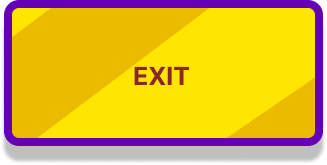
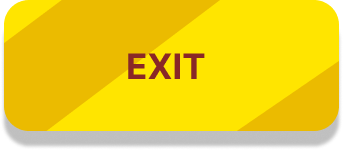
improved assets created and added

diff --git a/core/src/com/mygdx/game/screens/SelectTankScreen.java b/core/src/com/mygdx/game/screens/SelectTankScreen.java
@@ -58,8 +58,8 @@ public class SelectTankScreen implements Screen {
         previousButton = new Texture("left 3.png");
         rightActive = new Texture("left 4 sel.png");
         leftActive = new Texture("left 3 sel.png");
-        choose = new Texture("choose.png");
-        chooseSel = new Texture("chooseSel.png");
+        choose = new Texture("Group 22.png");
+        chooseSel = new Texture("Group 21.png");
         stage = new Stage(new StretchViewport(1920, 1080));
     }
     @Override
@@ -83,6 +83,7 @@ public class SelectTankScreen implements Screen {
         stage.getBatch().draw(nextButton, 1529, 469, 197, 142);
         stage.getBatch().draw(previousButton, 192, 469, 198, 142);
         int f = 0;
+        int currTank = 1;
 
         if (Gdx.input.getX() >1529 && Gdx.input.getX() < 1529+197 && Gdx.input.getY() > 469 && Gdx.input.getY() < 469+142) {
             stage.getBatch().draw(rightActive,1529, 469, 197, 142);
@@ -98,6 +99,7 @@ public class SelectTankScreen implements Screen {
             tankNameBanner = new Texture("Blazer.png");
             stage.getBatch().draw(tankNameBanner, 800, 750, 357, 136);
             stage.getBatch().draw(tank, 350, 150, 754, 552);
+            currTank = 2;
         }
         if (Gdx.input.getX() >192 && Gdx.input.getX() < 192+198 && Gdx.input.getY() > 469 && Gdx.input.getY() < 469+142) {
             stage.getBatch().draw(leftActive,192, 469, 198, 142);
@@ -108,6 +110,31 @@ public class SelectTankScreen implements Screen {
                 stage.getBatch().draw(tankNameBanner, 800, 750, 357, 136);
             }
         }
+
+//        if (currTank == 2) {
+//            if (Gdx.input.getX() > 1529 && Gdx.input.getX() < 1529 + 197 && Gdx.input.getY() > 469 && Gdx.input.getY() < 469 + 142) {
+//                stage.getBatch().draw(rightActive, 1529, 469, 197, 142);
+//                if (Gdx.input.justTouched()) {
+//                    f = 2;
+//                }
+//            } else if (Gdx.input.getX() > 192 && Gdx.input.getX() < 192 + 198 && Gdx.input.getY() > 469 && Gdx.input.getY() < 469 + 142) {
+//                stage.getBatch().draw(leftActive, 192, 469, 198, 142);
+//                if (Gdx.input.isTouched()) {
+//                    tank = new Texture("Blazer 3.png");
+//                    stage.getBatch().draw(tank, 350, 150, 1141, 752);
+//                    tankNameBanner = new Texture("Blazer.png");
+//                    stage.getBatch().draw(tankNameBanner, 800, 750, 357, 136);
+//                }
+//            }
+//        }
+
+//        if (f == 2){
+//            tank = new Texture("Blazer 3.png");
+//            tankNameBanner = new Texture("Blazer.png");
+//            stage.getBatch().draw(tankNameBanner, 800, 750, 357, 136);
+//            stage.getBatch().draw(tank, 350, 150, 754, 552);
+//        }
+
         int x = TankStars.WIDTH/2 - CHOOSE_BUTTON_WIDTH/2;
         if (Gdx.input.getX() < x + CHOOSE_BUTTON_WIDTH && Gdx.input.getX() > x && TankStars.HEIGHT - Gdx.input.getY() < CHOOSE_BUTTON_Y + CHOOSE_BUTTON_HEIGHT && TankStars.HEIGHT - Gdx.input.getY() > CHOOSE_BUTTON_Y) {
             stage.getBatch().draw(chooseSel, x, CHOOSE_BUTTON_Y, CHOOSE_BUTTON_WIDTH, CHOOSE_BUTTON_HEIGHT);

diff --git a/core/src/com/mygdx/game/screens/InGameScreen.java b/core/src/com/mygdx/game/screens/InGameScreen.java
@@ -31,6 +31,8 @@ public class InGameScreen implements Screen {
     private ArrayList<Float> groundHeight; // used to implement destructible terrain.
     private Texture ground;
     private Texture aim;
+    private Texture fireActive;
+    private Texture fuelActive;
 
 
 
@@ -39,10 +41,12 @@ public class InGameScreen implements Screen {
         ground = new Texture("ground.jpeg");
         stage = new Stage(new StretchViewport(1920, 1080));
         img = new Texture("nightBG.png");
-        healthBarR = new Texture("helthR.png");
-        healthBarL = new Texture("helth.png");
+        healthBarR = new Texture("helth.png");
+        healthBarL = new Texture("helthR.png");
         vs = new Texture("vs.png");
-        fire = new Texture("fire.png");
+        fire = new Texture("FIRE.png");
+        fireActive = new Texture("FIREACTIV.png");
+        fuelActive = new Texture("FUEL-1.png");
         fuel = new Texture("fuel.png");
         power = new Texture("power.png");
         angle = new Texture("angle.png");

diff --git a/core/src/com/mygdx/game/screens/MainScreen.java b/core/src/com/mygdx/game/screens/MainScreen.java
@@ -38,12 +38,12 @@ public class MainScreen implements Screen {
         this.game = game;
         stage = new Stage(new StretchViewport(1920, 1080));
         img = new Texture("GameLoading - 01.png");
-        newGameButton = new Texture("newGame.png");
-        newGameButtonActive = new Texture("newGameSel.png");
+        newGameButton = new Texture("Group 28.png");
+        newGameButtonActive = new Texture("Group 29.png");
         exitButton = new Texture("exit.png");
-        exitButtonActive = new Texture("exit-1.png");
-        resumeButton = new Texture("loadSaved.png");
-        resumeButtonActive = new Texture("loadSavedSel.png");
+        exitButtonActive = new Texture("exitSel.png");
+        resumeButton = new Texture("Group 24.png");
+        resumeButtonActive = new Texture("Group 23.png");
         x = 0;
         y = 0;
     }
